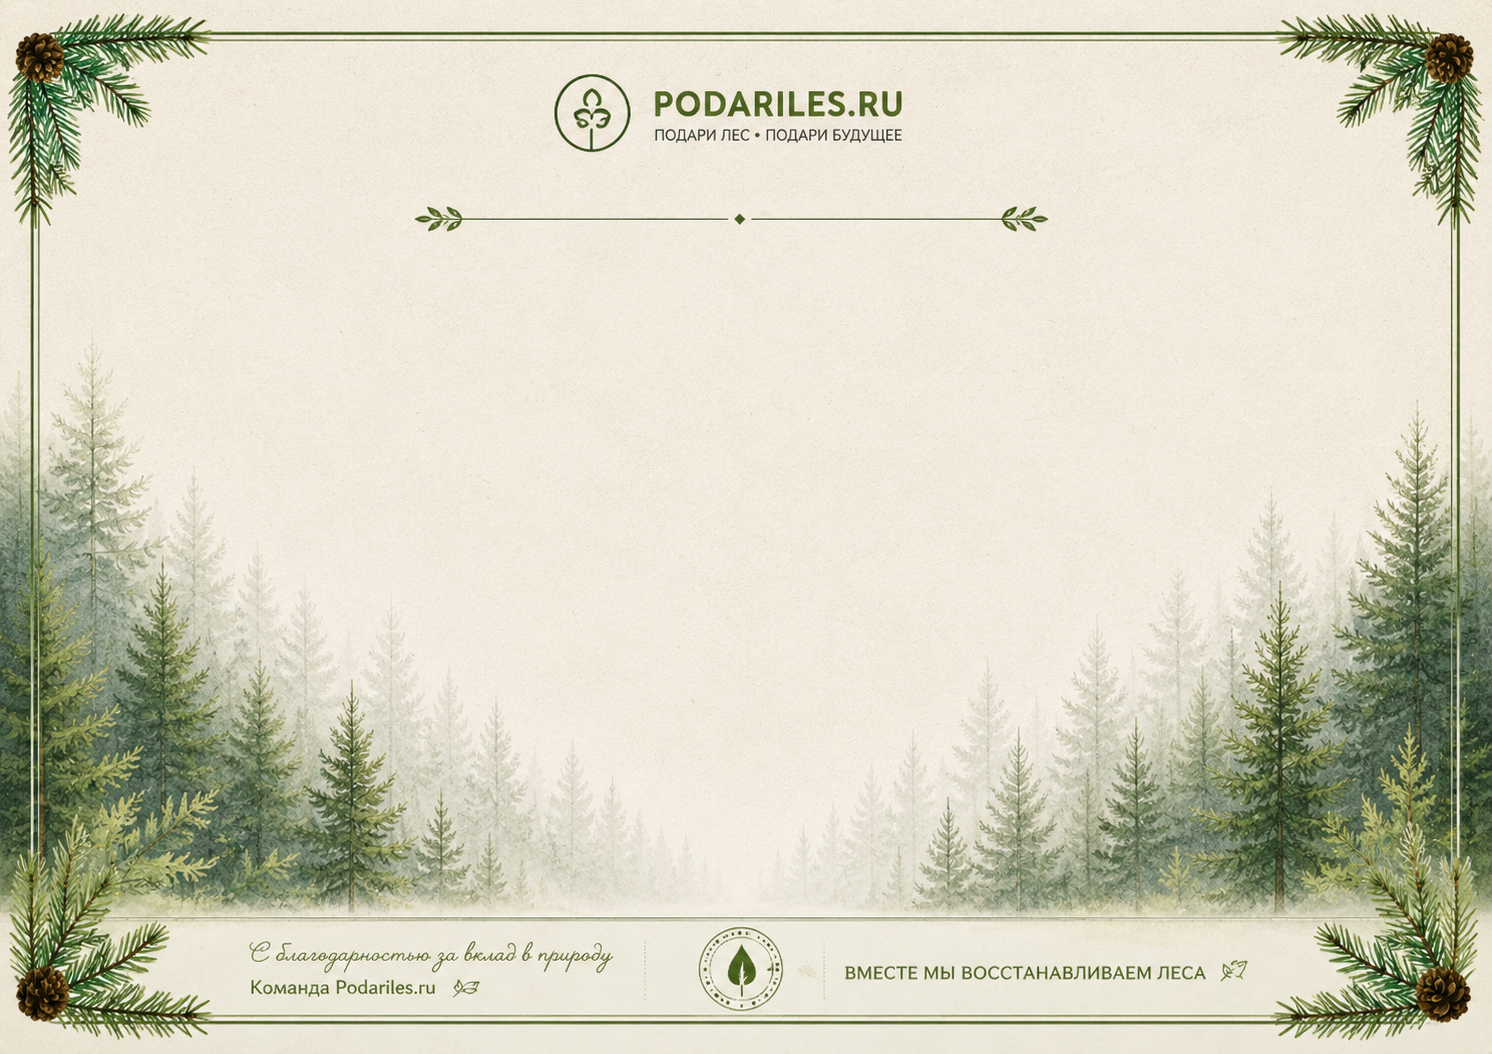
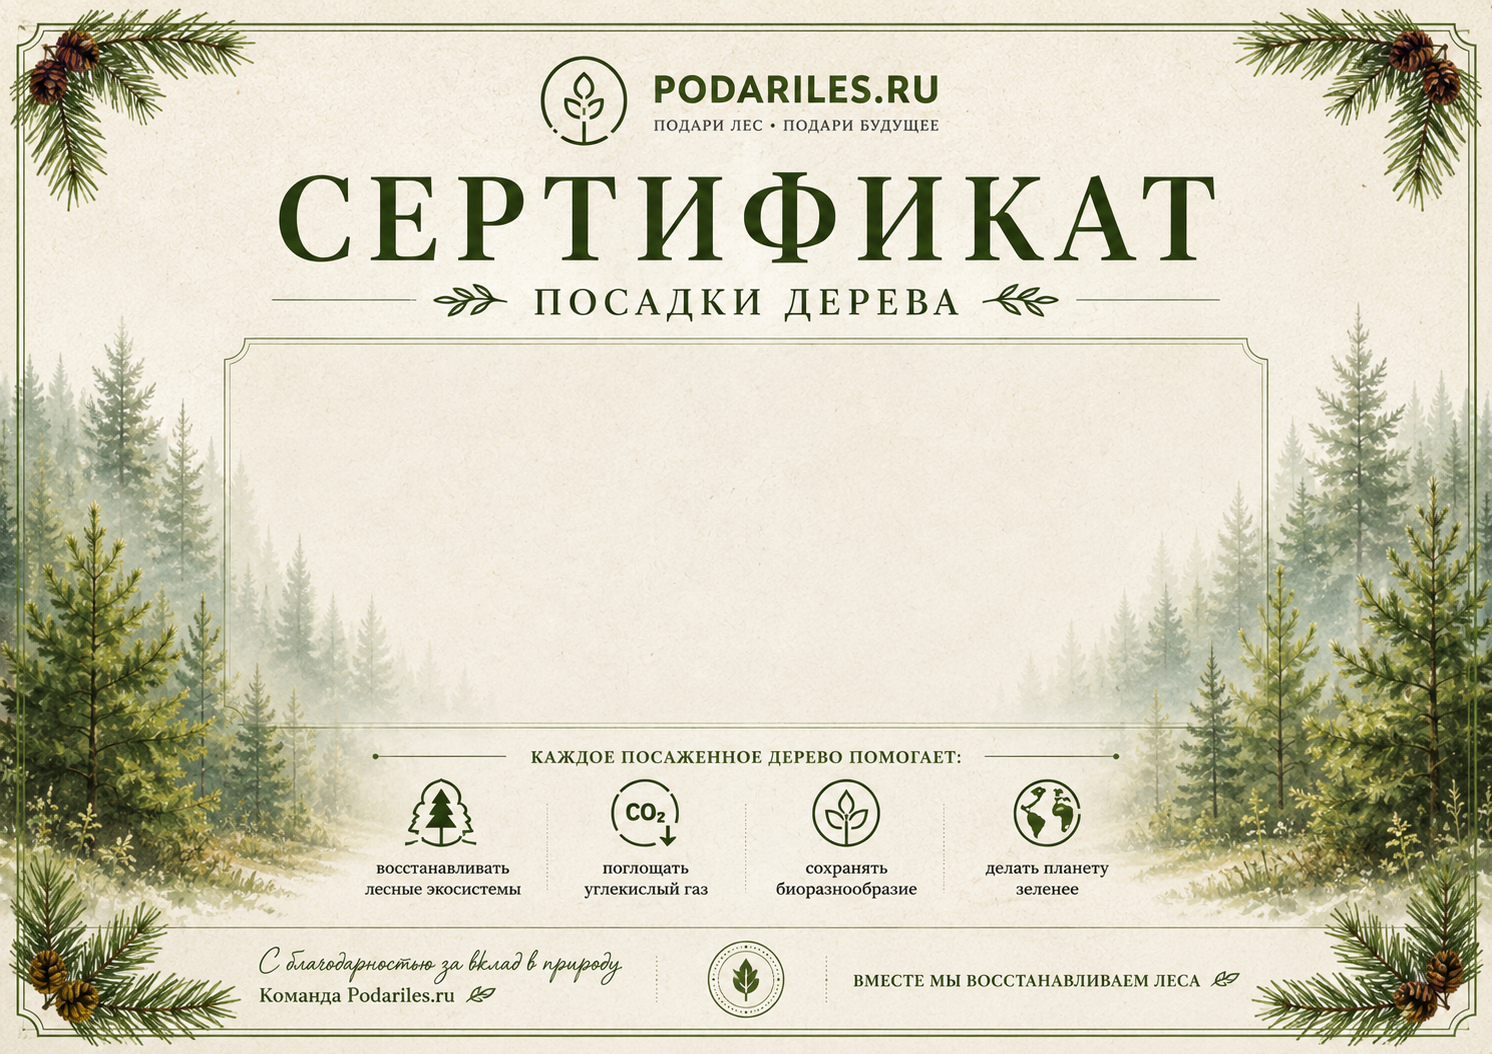
Add robots.txt, sitemap, update domain to podariles.ru, rework certificate layout
- app/robots.ts + app/sitemap.ts — SEO indexing for podariles.ru
- layout.tsx — metadataBase set to https://podariles.ru
- certificate.ts — centered layout with ornament lines, label, date/number split row
- certificate-template.png — updated template

diff --git a/lib/certificate.ts b/lib/certificate.ts
@@ -27,23 +27,41 @@ export async function generateCertificate(data: CertData): Promise<Buffer> {
   const page = pdfDoc.addPage([W, H])
   page.drawImage(bgImage, { x: 0, y: 0, width: W, height: H })
 
-  const lines: { text: string; size: number; y: number; color: ReturnType<typeof rgb> }[] = [
-    { text: `№ ${data.certNumber}`, size: 14, y: 370, color: rgb(0.3, 0.3, 0.3) },
-    { text: data.recipient,         size: 28, y: 320, color: rgb(0.13, 0.27, 0.13) },
-    { text: "Смоленская область",   size: 16, y: 270, color: rgb(0.3, 0.3, 0.3) },
-    { text: data.date,              size: 14, y: 230, color: rgb(0.3, 0.3, 0.3) },
-  ]
+  const lineColor = rgb(0.25, 0.40, 0.20)
+  const textGray  = rgb(0.38, 0.38, 0.38)
+  const nameGreen = rgb(0.13, 0.27, 0.13)
+  const lineLeft  = 130
+  const lineRight = 710
 
-  for (const line of lines) {
-    const w = font.widthOfTextAtSize(line.text, line.size)
-    page.drawText(line.text, {
-      x: (W - w) / 2,
-      y: line.y,
-      size: line.size,
-      font,
-      color: line.color,
-    })
+  const drawOrnamentLine = (y: number) => {
+    page.drawLine({ start: { x: lineLeft, y }, end: { x: W / 2 - 9, y }, thickness: 0.7, color: lineColor })
+    page.drawCircle({ x: W / 2, y, size: 3, color: lineColor })
+    page.drawLine({ start: { x: W / 2 + 9, y }, end: { x: lineRight, y }, thickness: 0.7, color: lineColor })
   }
+
+  // верхняя линия
+  drawOrnamentLine(338)
+
+  // метка
+  const label = "НАСТОЯЩИМ УДОСТОВЕРЯЕТСЯ, ЧТО"
+  const labelSize = 9.5
+  const labelW = font.widthOfTextAtSize(label, labelSize)
+  page.drawText(label, { x: (W - labelW) / 2, y: 318, size: labelSize, font, color: textGray, characterSpacing: 1.8 })
+
+  // имя получателя
+  const nameSize = 28
+  const nameW = font.widthOfTextAtSize(data.recipient, nameSize)
+  page.drawText(data.recipient, { x: (W - nameW) / 2, y: 278, size: nameSize, font, color: nameGreen })
+
+  // нижняя линия
+  drawOrnamentLine(256)
+
+  // дата (слева) и номер (справа)
+  const metaSize = 11
+  const numText = `№ ${data.certNumber}`
+  const numW = font.widthOfTextAtSize(numText, metaSize)
+  page.drawText(data.date, { x: lineLeft + 8, y: 234, size: metaSize, font, color: textGray })
+  page.drawText(numText,   { x: lineRight - numW - 8, y: 234, size: metaSize, font, color: textGray })
 
   return Buffer.from(await pdfDoc.save())
 }

diff --git a/app/sitemap.ts b/app/sitemap.ts
@@ -1,0 +1,12 @@
+import { MetadataRoute } from "next"
+
+const base = "https://podariles.ru"
+
+export default function sitemap(): MetadataRoute.Sitemap {
+  return [
+    { url: base,                          lastModified: new Date(), changeFrequency: "monthly", priority: 1.0 },
+    { url: `${base}/dying-forests`,       lastModified: new Date(), changeFrequency: "monthly", priority: 0.8 },
+    { url: `${base}/oferta`,              lastModified: new Date(), changeFrequency: "yearly",  priority: 0.3 },
+    { url: `${base}/privacy`,             lastModified: new Date(), changeFrequency: "yearly",  priority: 0.3 },
+  ]
+}

diff --git a/app/layout.tsx b/app/layout.tsx
@@ -14,6 +14,7 @@ const sourceSans = Source_Sans_3({
 });
 
 export const metadata: Metadata = {
+  metadataBase: new URL("https://podariles.ru"),
   title: 'ЛесВозрождение - Восстанавливаем леса вместе',
   description: 'Мы сажаем деревья взамен вырубленных. Подарите дерево близкому человеку и помогите природе.',
   generator: 'v0.app',

diff --git a/app/robots.ts b/app/robots.ts
@@ -1,0 +1,8 @@
+import { MetadataRoute } from "next"
+
+export default function robots(): MetadataRoute.Robots {
+  return {
+    rules: { userAgent: "*", allow: "/" },
+    sitemap: "https://podariles.ru/sitemap.xml",
+  }
+}

diff --git a/CLAUDE.md b/CLAUDE.md
@@ -52,7 +52,7 @@ Contacts and the order form are **placeholders** — email, phone, address are f
 
 | What | Value |
 |------|-------|
-| Domain | pirogylkin.duckdns.org |
+| Domain | podariles.ru |
 | Server | VPS, nginx + Docker |
 | Path on server | `/home/deploy/forestsaver` |
 | Docker image | `ghcr.io/khvanches/forestsaver:latest` |
